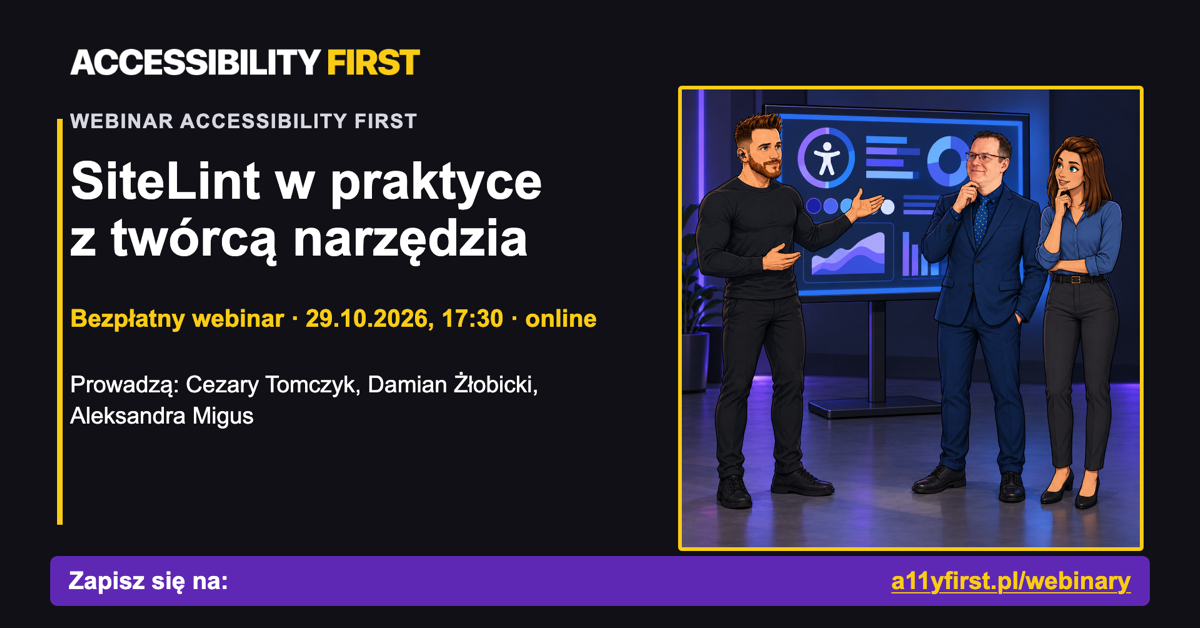
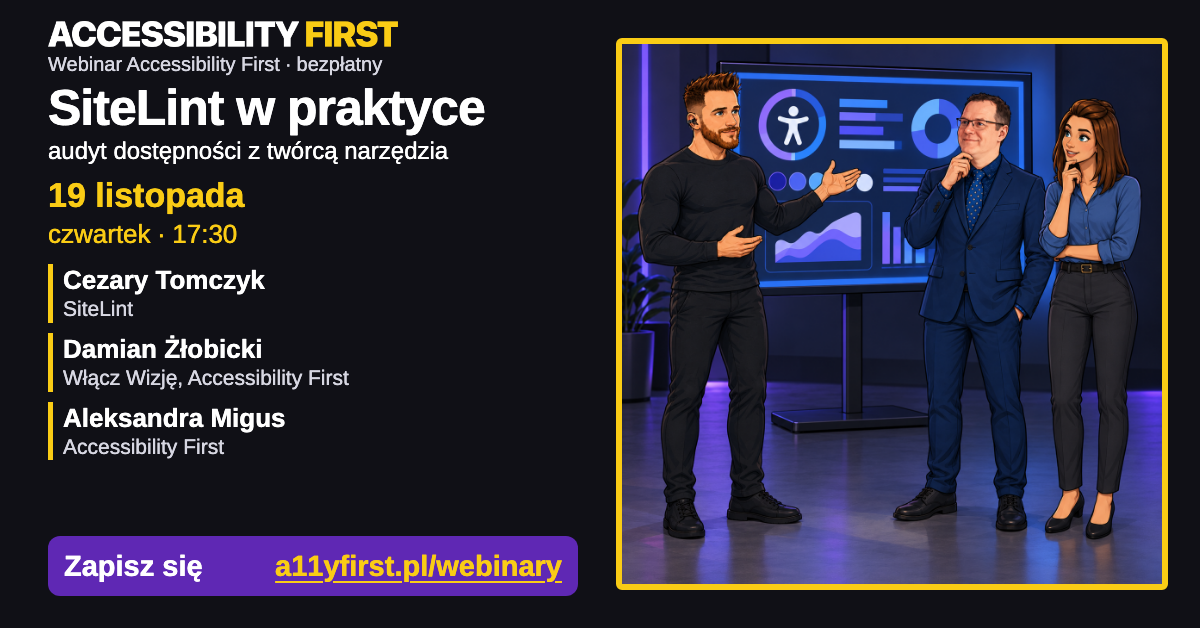
Webinar SiteLint przelozony na czw. 19.11.2026, 17:30-19:00
- strona webinaru: tytul, meta, OG/Twitter, alt OG, Event (start/end UTC+1), termin w tresci
- karty na stronie glownej i liscie webinarow: nowa data, kolejnosc CSS 05.11 przed SiteLint 19.11
- narzedzia-audytora i wzmianka w webinarze o wtyczkach: nowa data
- sitemap: lastmod strony SiteLint
- grafika OG 1200x628 (PNG i WebP) z nowa data

Decyzja Damiana z 27.10.2026. Link formularza zapisow bez zmian do czasu utworzenia nowego.

Claude-Session: https://claude.ai/code/session_018Wus6fJKrnewAEMPxJTZou

diff --git a/public/webinary/sitelint-w-praktyce.html b/public/webinary/sitelint-w-praktyce.html
@@ -3,8 +3,8 @@
 <head>
     <meta charset="UTF-8">
     <meta name="viewport" content="width=device-width, initial-scale=1.0">
-    <title>Webinar: SiteLint w praktyce, 29.10.2026 - Accessibility First</title>
-    <meta name="description" content="Bezpłatny webinar online o SiteLint: wtyczka do przeglądarki, DevTools i platforma. Prowadzą Cezary Tomczyk, Damian Żłobicki i Aleksandra Migus. 29 października 2026, 17:30-19:00.">
+    <title>Webinar: SiteLint w praktyce, 19.11.2026 - Accessibility First</title>
+    <meta name="description" content="Bezpłatny webinar online o SiteLint: wtyczka do przeglądarki, DevTools i platforma. Prowadzą Cezary Tomczyk, Damian Żłobicki i Aleksandra Migus. 19 listopada 2026, 17:30-19:00.">
     <link rel="canonical" href="https://www.a11yfirst.pl/webinary/sitelint-w-praktyce">
     <link rel="icon" href="/favicon.ico" sizes="16x16 32x32 48x48">
     <link rel="icon" href="/favicon-48x48.png" type="image/png" sizes="48x48">
@@ -14,19 +14,19 @@
     <meta property="og:type" content="website">
     <meta property="og:locale" content="pl_PL">
     <meta property="og:site_name" content="Accessibility First">
-    <meta property="og:title" content="Webinar: SiteLint w praktyce, 29.10.2026 - Accessibility First">
-    <meta property="og:description" content="Bezpłatny webinar online o SiteLint: wtyczka do przeglądarki, DevTools i platforma. Prowadzą Cezary Tomczyk, Damian Żłobicki i Aleksandra Migus. 29 października 2026, 17:30-19:00.">
+    <meta property="og:title" content="Webinar: SiteLint w praktyce, 19.11.2026 - Accessibility First">
+    <meta property="og:description" content="Bezpłatny webinar online o SiteLint: wtyczka do przeglądarki, DevTools i platforma. Prowadzą Cezary Tomczyk, Damian Żłobicki i Aleksandra Migus. 19 listopada 2026, 17:30-19:00.">
     <meta property="og:url" content="https://www.a11yfirst.pl/webinary/sitelint-w-praktyce">
     <meta property="og:image" content="https://www.a11yfirst.pl/assets/webinary/2026/sitelint-w-praktyce/og-sitelint-1200x628.png">
     <meta property="og:image:width" content="1200">
     <meta property="og:image:height" content="628">
-    <meta property="og:image:alt" content="Accessibility First. SiteLint w praktyce z twórcą narzędzia. Bezpłatny webinar online 29 października 2026 o 17:30. Prowadzą: Cezary Tomczyk, Damian Żłobicki i Aleksandra Migus. Zapisz się na a11yfirst.pl/webinary.">
+    <meta property="og:image:alt" content="Accessibility First. SiteLint w praktyce z twórcą narzędzia. Bezpłatny webinar online 19 listopada 2026 o 17:30. Prowadzą: Cezary Tomczyk, Damian Żłobicki i Aleksandra Migus. Zapisz się na a11yfirst.pl/webinary.">
     <meta name="twitter:card" content="summary_large_image">
-    <meta name="twitter:title" content="Webinar: SiteLint w praktyce, 29.10.2026 - Accessibility First">
-    <meta name="twitter:description" content="Bezpłatny webinar online o SiteLint: wtyczka do przeglądarki, DevTools i platforma. Prowadzą Cezary Tomczyk, Damian Żłobicki i Aleksandra Migus. 29 października 2026, 17:30-19:00.">
+    <meta name="twitter:title" content="Webinar: SiteLint w praktyce, 19.11.2026 - Accessibility First">
+    <meta name="twitter:description" content="Bezpłatny webinar online o SiteLint: wtyczka do przeglądarki, DevTools i platforma. Prowadzą Cezary Tomczyk, Damian Żłobicki i Aleksandra Migus. 19 listopada 2026, 17:30-19:00.">
     <meta name="twitter:image" content="https://www.a11yfirst.pl/assets/webinary/2026/sitelint-w-praktyce/og-sitelint-1200x628.png">
     <!-- DO UZUPEŁNIENIA w Event: endDate (czas trwania niepotwierdzony), offers.url = link formularza, availability InStock i validFrom po starcie zapisów, image dodany 06.10. -->
-    <script type="application/ld+json">{"@context":"https://schema.org","@type":"Event","name":"SiteLint w praktyce z twórcą narzędzia","description":"Bezpłatny webinar online o SiteLint w trzech odsłonach: wtyczka do przeglądarki, narzędzie w konsoli deweloperskiej i platforma z kodem JS.","url":"https://www.a11yfirst.pl/webinary/sitelint-w-praktyce","startDate":"2026-10-29T17:30:00+01:00","endDate":"2026-10-29T19:00:00+01:00","eventAttendanceMode":"https://schema.org/OnlineEventAttendanceMode","eventStatus":"https://schema.org/EventScheduled","isAccessibleForFree":true,"location":{"@type":"VirtualLocation","url":"https://www.a11yfirst.pl/webinary/sitelint-w-praktyce"},"organizer":{"@type":"Organization","name":"Włącz Wizję sp. z o.o.","url":"https://wlaczwizje.pl"},"image":"https://www.a11yfirst.pl/assets/webinary/2026/sitelint-w-praktyce/og-sitelint-1200x628.png","performer":[{"@type":"Person","name":"Cezary Tomczyk"},{"@type":"Person","name":"Damian Żłobicki"},{"@type":"Person","name":"Aleksandra Migus"}],"offers":{"@type":"Offer","url":"https://docs.google.com/forms/d/e/1FAIpQLScW7ZyZYVa_JvJkxAtBP7-mlr2eVgHw-nUFqQ8jYyQJlFkmCA/viewform","price":"0","priceCurrency":"PLN","availability":"https://schema.org/InStock"}}</script>
+    <script type="application/ld+json">{"@context":"https://schema.org","@type":"Event","name":"SiteLint w praktyce z twórcą narzędzia","description":"Bezpłatny webinar online o SiteLint w trzech odsłonach: wtyczka do przeglądarki, narzędzie w konsoli deweloperskiej i platforma z kodem JS.","url":"https://www.a11yfirst.pl/webinary/sitelint-w-praktyce","startDate":"2026-11-19T17:30:00+01:00","endDate":"2026-11-19T19:00:00+01:00","eventAttendanceMode":"https://schema.org/OnlineEventAttendanceMode","eventStatus":"https://schema.org/EventScheduled","isAccessibleForFree":true,"location":{"@type":"VirtualLocation","url":"https://www.a11yfirst.pl/webinary/sitelint-w-praktyce"},"organizer":{"@type":"Organization","name":"Włącz Wizję sp. z o.o.","url":"https://wlaczwizje.pl"},"image":"https://www.a11yfirst.pl/assets/webinary/2026/sitelint-w-praktyce/og-sitelint-1200x628.png","performer":[{"@type":"Person","name":"Cezary Tomczyk"},{"@type":"Person","name":"Damian Żłobicki"},{"@type":"Person","name":"Aleksandra Migus"}],"offers":{"@type":"Offer","url":"https://docs.google.com/forms/d/e/1FAIpQLScW7ZyZYVa_JvJkxAtBP7-mlr2eVgHw-nUFqQ8jYyQJlFkmCA/viewform","price":"0","priceCurrency":"PLN","availability":"https://schema.org/InStock"}}</script>
     <link rel="stylesheet" href="/assets/styles.css?v=21">
     <link rel="stylesheet" href="/assets/events.css?v=9">
 </head>
@@ -52,13 +52,13 @@
 
     <main id="main">
         <nav class="breadcrumbs" aria-label="Ścieżka okruszków"><ol><li><a href="/">Strona główna</a></li><li><a href="/szkolenia">Szkolenia</a></li><li><a href="/webinary">Webinary</a></li><li aria-current="page">SiteLint w praktyce z twórcą narzędzia</li></ol></nav>
-<section class="hero page-hero"><div class="container"><p class="event-kicker">Webinar Accessibility First · online · udział bezpłatny</p><h1>SiteLint w praktyce z twórcą narzędzia</h1><p class="subtitle"><time datetime="2026-10-29T17:30:00+01:00">Czwartek, 29 października 2026, godz. 17:30-19:00</time> (czas polski)</p><p class="event-summary">Bezpłatny webinar online o możliwościach SiteLint w trzech odsłonach: wtyczki do przeglądarki, narzędzia w konsoli deweloperskiej i platformy z kodem JS. Prowadzą Cezary Tomczyk, twórca narzędzia, Damian Żłobicki i Aleksandra Migus z Accessibility First.</p><a class="btn btn-primary" href="#zapisy">Przejdź do zapisów</a></div></section>
+<section class="hero page-hero"><div class="container"><p class="event-kicker">Webinar Accessibility First · online · udział bezpłatny</p><h1>SiteLint w praktyce z twórcą narzędzia</h1><p class="subtitle"><time datetime="2026-11-19T17:30:00+01:00">Czwartek, 19 listopada 2026, godz. 17:30-19:00</time> (czas polski)</p><p class="event-summary">Bezpłatny webinar online o możliwościach SiteLint w trzech odsłonach: wtyczki do przeglądarki, narzędzia w konsoli deweloperskiej i platformy z kodem JS. Prowadzą Cezary Tomczyk, twórca narzędzia, Damian Żłobicki i Aleksandra Migus z Accessibility First.</p><a class="btn btn-primary" href="#zapisy">Przejdź do zapisów</a></div></section>
   <section class="knowledge-article event-section" aria-labelledby="grafika"><div class="container"><h2 id="grafika">Webinar</h2><img class="event-image" src="/assets/webinary/2026/sitelint-w-praktyce/sitelint-trio-640.webp" srcset="/assets/webinary/2026/sitelint-w-praktyce/sitelint-trio-640.webp 640w, /assets/webinary/2026/sitelint-w-praktyce/sitelint-trio-960.webp 960w, /assets/webinary/2026/sitelint-w-praktyce/sitelint-trio-1254.webp 1254w" sizes="(max-width: 704px) calc(100vw - 4rem), 640px" width="640" height="640" alt="Ilustracja: trzy osoby prowadzące webinar stoją przy dużym ekranie z abstrakcyjnym raportem dostępności i ikoną dostępności. Damian wskazuje na ekran, Cezary w garniturze i Aleksandra słuchają."></div></section>
   <section class="knowledge-article event-section" aria-labelledby="opis"><div class="container"><h2 id="opis">O webinarze</h2><p>SiteLint był jednym z narzędzi omawianych na webinarze <a href="/webinary/nieoczywiste-wtyczki-do-badania-dostepnosci-cyfrowej">„Nieoczywiste wtyczki do badania dostępności cyfrowej”</a> 17 września 2026. Tym razem całe spotkanie poświęcamy temu narzędziu i pokazujemy je razem z jego twórcą, Cezarym Tomczykiem.</p><p>Webinar jest praktyczny: pokazy na przykładach i miejsce na pytania.</p></div></section>
   <section class="knowledge-article event-section" aria-labelledby="zakres"><div class="container"><h2 id="zakres">Co pokażemy?</h2><p>Możliwości SiteLint w trzech warstwach:</p><ul class="detail-list"><li>wtyczka do przeglądarki,</li><li>narzędzie w konsoli deweloperskiej (DevTools),</li><li>platforma z kodem JS.</li></ul><p>Szczegółowy program uzupełnimy przed webinarem.</p></div></section>
   <section class="knowledge-article event-section" aria-labelledby="dla-kogo"><div class="container"><h2 id="dla-kogo">Dla kogo?</h2><ul class="detail-list"><li>audytorów i testerów dostępności,</li><li>specjalistów WCAG,</li><li>frontend developerów,</li><li>osób utrzymujących serwisy internetowe,</li><li>UX/UI designerów,</li><li>koordynatorów dostępności.</li></ul><p>Wystarczy podstawowa znajomość dostępności cyfrowej. Nie trzeba znać SiteLint.</p></div></section>
   <section class="knowledge-article event-section" aria-labelledby="prowadzacy"><div class="container"><h2 id="prowadzacy">Prowadzą</h2><ul class="detail-list"><li><strong>Cezary Tomczyk</strong>, twórca SiteLint. Współpracował z Apple i Microsoft, pracował nad dostępnością Skype’a.</li><li><strong>Aleksandra Migus</strong>, Accessibility First. Członkini Sieci Dostępności Cyfrowej i testerka dostępności.</li><li><strong>Damian Żłobicki</strong>, Accessibility First / Włącz Wizję. Ekspert dostępności cyfrowej i trener Szkoły Dostępności Cyfrowej. Szkoli od 2015 roku, ma za sobą ponad 5000 godzin na sali szkoleniowej. Był ekspertem w projekcie „AI DC - sztuczna inteligencja w badaniu dostępności cyfrowej”, przy raporcie dla Ministerstwa Cyfryzacji.</li></ul></div></section>
-  <section class="knowledge-article event-section" aria-labelledby="organizacja"><div class="container"><h2 id="organizacja">Informacje organizacyjne</h2><dl class="event-facts"><div><dt>Termin</dt><dd>Czwartek, 29 października 2026</dd></div><div><dt>Godzina</dt><dd>17:30-19:00 (czas polski)</dd></div><div><dt>Forma</dt><dd>online</dd></div><div><dt>Udział</dt><dd>bezpłatny</dd></div><div><dt>Prowadzenie</dt><dd>Cezary Tomczyk, Damian Żłobicki i Aleksandra Migus</dd></div><div><dt>Link do spotkania</dt><dd>wyślemy mailem zapisanym osobom przed startem</dd></div></dl></div></section>
+  <section class="knowledge-article event-section" aria-labelledby="organizacja"><div class="container"><h2 id="organizacja">Informacje organizacyjne</h2><dl class="event-facts"><div><dt>Termin</dt><dd>Czwartek, 19 listopada 2026</dd></div><div><dt>Godzina</dt><dd>17:30-19:00 (czas polski)</dd></div><div><dt>Forma</dt><dd>online</dd></div><div><dt>Udział</dt><dd>bezpłatny</dd></div><div><dt>Prowadzenie</dt><dd>Cezary Tomczyk, Damian Żłobicki i Aleksandra Migus</dd></div><div><dt>Link do spotkania</dt><dd>wyślemy mailem zapisanym osobom przed startem</dd></div></dl></div></section>
   <section class="knowledge-article event-section" aria-labelledby="zapisy"><div class="container"><h2 id="zapisy">Zapisy na webinar</h2><p><a class="btn btn-primary" href="https://docs.google.com/forms/d/e/1FAIpQLScW7ZyZYVa_JvJkxAtBP7-mlr2eVgHw-nUFqQ8jYyQJlFkmCA/viewform">Zapisz się na webinar</a></p></div></section>
   <section class="knowledge-article event-access event-section" aria-labelledby="dostepnosc-wydarzenia-title">
             <div class="container">

diff --git a/public/webinary.html b/public/webinary.html
@@ -49,7 +49,7 @@
     <main id="main">
         <nav class="breadcrumbs" aria-label="Ścieżka okruszków"><ol><li><a href="/">Strona główna</a></li><li><a href="/szkolenia">Szkolenia</a></li><li aria-current="page">Webinary</li></ol></nav>
 
-<section class="hero page-hero"><div class="container"><h1>Webinary Accessibility First</h1><p class="subtitle">Praktyczne spotkania online o dostępności cyfrowej.</p></div></section><section class="knowledge-article event-section" aria-labelledby="wydarzenia"><div class="container"><h2 id="wydarzenia">Terminy i tematy webinarów</h2><div class="training-grid"><article class="training-card"><div class="training-card-image"><img src="/assets/webinary/2026/sitelint-w-praktyce/og-sitelint-1200x628.webp" width="1200" height="628" alt="Trzy osoby prowadzące webinar stoją przy dużym ekranie z abstrakcyjnym raportem dostępności i ikoną dostępności. Damian wskazuje na ekran, Cezary w garniturze i Aleksandra słuchają." loading="lazy"></div><div class="training-card-body"><p class="training-type">Webinar · online · udział bezpłatny</p><h3><a href="/webinary/sitelint-w-praktyce">SiteLint w praktyce z twórcą narzędzia</a></h3><p class="training-date"><strong><time datetime="2026-10-29T17:30:00+01:00">29 października 2026, godz. 17:30-19:00</time></strong></p><p class="training-speaker"><strong>Prowadzenie: Cezary Tomczyk, Damian Żłobicki i Aleksandra Migus</strong></p><p>Bezpłatny webinar online o SiteLint w trzech odsłonach: wtyczka do przeglądarki, narzędzie w konsoli deweloperskiej i platforma z kodem JS.</p><a class="btn btn-primary" href="https://docs.google.com/forms/d/e/1FAIpQLScW7ZyZYVa_JvJkxAtBP7-mlr2eVgHw-nUFqQ8jYyQJlFkmCA/viewform">Zapisz się na webinar<span class="sr-only">: SiteLint w praktyce z twórcą narzędzia</span></a></div></article><article class="training-card"><div class="training-card-image"><img src="/assets/webinary/2026/css-w-dostepnosci-cyfrowej/og-1200x628.webp" width="1200" height="628" alt="Ola w niebieskiej koszuli stoi profilem przy komputerze i wskazuje wyróżniony obrys prostokąta na ekranie z siatką, kontrastowymi polami i słupkami różnej wielkości." loading="lazy"></div><div class="training-card-body"><p class="training-type">Webinar · online · udział bezpłatny</p><h3><a href="/webinary/css-w-dostepnosci-cyfrowej">CSS w dostępności cyfrowej</a></h3><p class="training-date"><strong><time datetime="2026-11-05T17:30:00+01:00">5 listopada 2026, godz. 17:30-19:00</time></strong></p><p class="training-speaker"><strong>Prowadzenie: Aleksandra Migus</strong></p><p>Bezpłatny webinar online o tym, jak CSS wpływa na dostępność cyfrową. Prowadzi Aleksandra Migus.</p><a class="btn btn-primary" href="https://forms.gle/TsApx9d1GZmJ4kG58">Zapisz się na webinar<span class="sr-only">: CSS w dostępności cyfrowej</span></a></div></article><article class="training-card"><div class="training-card-image"><img src="/assets/webinary/2026/czy-dostepnosc-cyfrowa-jest-tematem-przyszlosci/og-v4-1200x628.webp" width="1200" height="628" alt="ACCESSIBILITY FIRST. Online, udział bezpłatny. Czy dostępność cyfrowa jest tematem przyszłości? Czwartek, 1 października 2026. 17:30-19:00 (czas polski). Prowadzą: Damian Żłobicki i Aleksandra Migus. Accessibility First: marka Włącz Wizję sp. z o.o. Damian i Ola pokazani profilem przy interaktywnym ekranie w futurystycznym centrum kompetencji. Ilustracja bez napisów; informacje wydarzenia obok, na fioletowym i jasnoniebieskim tle. Panel informacyjny i ilustracja mają żółte ramki." loading="lazy"></div><div class="training-card-body"><p class="training-type">Webinar · online · odbył się 01.10</p><h3><a href="/webinary/czy-dostepnosc-cyfrowa-jest-tematem-przyszlosci">Czy dostępność cyfrowa jest tematem przyszłości?</a></h3><p class="training-date"><strong><time datetime="2026-10-01T17:30:00+02:00">1 października 2026, godz. 17:30-19:00</time></strong></p><p class="training-speaker"><strong>Prowadzenie: Damian Żłobicki i Aleksandra Migus</strong></p><p>Ustawa, EAA, coraz więcej audytów, a obok AI, które obiecuje, że „zrobi dostępność za nas”. Dokąd to zmierza? Bezpłatny webinar online z Damianem Żłobickim i Aleksandrą Migus.</p><p>Nagranie jest dostępne bezpłatnie na YouTube.</p><a class="btn btn-primary" href="https://youtu.be/ip843OThfnU">Obejrzyj webinar na YouTube<span class="sr-only">: Czy dostępność cyfrowa jest tematem przyszłości?</span></a></div></article><article class="training-card"><div class="training-card-image"><img src="/assets/webinary/2026/semantyczny-html-nie-taki-straszny/sala-v2-1200x628.webp" width="1200" height="628" alt="Damian tłumaczy temat przy komputerze Apple w jasnej sali szkoleniowej." loading="lazy"></div><div class="training-card-body"><p class="training-type">Webinar · online · odbył się 24.09</p><h3><a href="/webinary/semantyczny-html-nie-taki-straszny">Semantyczny HTML, nie taki straszny</a></h3><p class="training-date"><strong><time datetime="2026-09-24T17:00:00+02:00">24 września 2026, godz. 17:00</time></strong></p><p class="training-speaker"><strong>Prowadzenie: Damian Żłobicki</strong></p><p>Praktyczny webinar o semantycznym HTML i jego znaczeniu dla dostępności cyfrowej, jakości kodu oraz współpracy z technologiami asystującymi.</p><a class="btn btn-primary" href="/sklep#web06">Kup nagranie (69 zł)<span class="sr-only">: nagranie webinaru Semantyczny HTML, nie taki straszny</span></a></div></article></div></div></section>
+<section class="hero page-hero"><div class="container"><h1>Webinary Accessibility First</h1><p class="subtitle">Praktyczne spotkania online o dostępności cyfrowej.</p></div></section><section class="knowledge-article event-section" aria-labelledby="wydarzenia"><div class="container"><h2 id="wydarzenia">Terminy i tematy webinarów</h2><div class="training-grid"><article class="training-card"><div class="training-card-image"><img src="/assets/webinary/2026/css-w-dostepnosci-cyfrowej/og-1200x628.webp" width="1200" height="628" alt="Ola w niebieskiej koszuli stoi profilem przy komputerze i wskazuje wyróżniony obrys prostokąta na ekranie z siatką, kontrastowymi polami i słupkami różnej wielkości." loading="lazy"></div><div class="training-card-body"><p class="training-type">Webinar · online · udział bezpłatny</p><h3><a href="/webinary/css-w-dostepnosci-cyfrowej">CSS w dostępności cyfrowej</a></h3><p class="training-date"><strong><time datetime="2026-11-05T17:30:00+01:00">5 listopada 2026, godz. 17:30-19:00</time></strong></p><p class="training-speaker"><strong>Prowadzenie: Aleksandra Migus</strong></p><p>Bezpłatny webinar online o tym, jak CSS wpływa na dostępność cyfrową. Prowadzi Aleksandra Migus.</p><a class="btn btn-primary" href="https://forms.gle/TsApx9d1GZmJ4kG58">Zapisz się na webinar<span class="sr-only">: CSS w dostępności cyfrowej</span></a></div></article><article class="training-card"><div class="training-card-image"><img src="/assets/webinary/2026/sitelint-w-praktyce/og-sitelint-1200x628.webp" width="1200" height="628" alt="Trzy osoby prowadzące webinar stoją przy dużym ekranie z abstrakcyjnym raportem dostępności i ikoną dostępności. Damian wskazuje na ekran, Cezary w garniturze i Aleksandra słuchają." loading="lazy"></div><div class="training-card-body"><p class="training-type">Webinar · online · udział bezpłatny</p><h3><a href="/webinary/sitelint-w-praktyce">SiteLint w praktyce z twórcą narzędzia</a></h3><p class="training-date"><strong><time datetime="2026-11-19T17:30:00+01:00">19 listopada 2026, godz. 17:30-19:00</time></strong></p><p class="training-speaker"><strong>Prowadzenie: Cezary Tomczyk, Damian Żłobicki i Aleksandra Migus</strong></p><p>Bezpłatny webinar online o SiteLint w trzech odsłonach: wtyczka do przeglądarki, narzędzie w konsoli deweloperskiej i platforma z kodem JS.</p><a class="btn btn-primary" href="https://docs.google.com/forms/d/e/1FAIpQLScW7ZyZYVa_JvJkxAtBP7-mlr2eVgHw-nUFqQ8jYyQJlFkmCA/viewform">Zapisz się na webinar<span class="sr-only">: SiteLint w praktyce z twórcą narzędzia</span></a></div></article><article class="training-card"><div class="training-card-image"><img src="/assets/webinary/2026/czy-dostepnosc-cyfrowa-jest-tematem-przyszlosci/og-v4-1200x628.webp" width="1200" height="628" alt="ACCESSIBILITY FIRST. Online, udział bezpłatny. Czy dostępność cyfrowa jest tematem przyszłości? Czwartek, 1 października 2026. 17:30-19:00 (czas polski). Prowadzą: Damian Żłobicki i Aleksandra Migus. Accessibility First: marka Włącz Wizję sp. z o.o. Damian i Ola pokazani profilem przy interaktywnym ekranie w futurystycznym centrum kompetencji. Ilustracja bez napisów; informacje wydarzenia obok, na fioletowym i jasnoniebieskim tle. Panel informacyjny i ilustracja mają żółte ramki." loading="lazy"></div><div class="training-card-body"><p class="training-type">Webinar · online · odbył się 01.10</p><h3><a href="/webinary/czy-dostepnosc-cyfrowa-jest-tematem-przyszlosci">Czy dostępność cyfrowa jest tematem przyszłości?</a></h3><p class="training-date"><strong><time datetime="2026-10-01T17:30:00+02:00">1 października 2026, godz. 17:30-19:00</time></strong></p><p class="training-speaker"><strong>Prowadzenie: Damian Żłobicki i Aleksandra Migus</strong></p><p>Ustawa, EAA, coraz więcej audytów, a obok AI, które obiecuje, że „zrobi dostępność za nas”. Dokąd to zmierza? Bezpłatny webinar online z Damianem Żłobickim i Aleksandrą Migus.</p><p>Nagranie jest dostępne bezpłatnie na YouTube.</p><a class="btn btn-primary" href="https://youtu.be/ip843OThfnU">Obejrzyj webinar na YouTube<span class="sr-only">: Czy dostępność cyfrowa jest tematem przyszłości?</span></a></div></article><article class="training-card"><div class="training-card-image"><img src="/assets/webinary/2026/semantyczny-html-nie-taki-straszny/sala-v2-1200x628.webp" width="1200" height="628" alt="Damian tłumaczy temat przy komputerze Apple w jasnej sali szkoleniowej." loading="lazy"></div><div class="training-card-body"><p class="training-type">Webinar · online · odbył się 24.09</p><h3><a href="/webinary/semantyczny-html-nie-taki-straszny">Semantyczny HTML, nie taki straszny</a></h3><p class="training-date"><strong><time datetime="2026-09-24T17:00:00+02:00">24 września 2026, godz. 17:00</time></strong></p><p class="training-speaker"><strong>Prowadzenie: Damian Żłobicki</strong></p><p>Praktyczny webinar o semantycznym HTML i jego znaczeniu dla dostępności cyfrowej, jakości kodu oraz współpracy z technologiami asystującymi.</p><a class="btn btn-primary" href="/sklep#web06">Kup nagranie (69 zł)<span class="sr-only">: nagranie webinaru Semantyczny HTML, nie taki straszny</span></a></div></article></div></div></section>
     </main>
 
     <footer>

diff --git a/public/index.html b/public/index.html
@@ -496,7 +496,7 @@
     </nav>
 
 <!-- generated:webinars:start -->
-<section class="home-webinars" aria-labelledby="home-webinars-title" data-lista-webinarow="linkWebinaryHome"><h2 id="home-webinars-title">Najbliższe webinary</h2><div class="training-grid"><article class="training-card" data-typ="webinar"><div class="training-card-image"><img src="/assets/webinary/2026/sitelint-w-praktyce/og-sitelint-1200x628.webp" width="1200" height="628" alt="Trzy osoby prowadzące webinar stoją przy dużym ekranie z abstrakcyjnym raportem dostępności i ikoną dostępności. Damian wskazuje na ekran, Cezary w garniturze i Aleksandra słuchają." loading="lazy"></div><div class="training-card-body"><p class="training-type">Webinar · online · udział bezpłatny</p><h3>SiteLint w praktyce z twórcą narzędzia</h3><p class="training-date"><strong><time datetime="2026-10-29T17:30:00+01:00">29 października 2026, godz. 17:30-19:00</time></strong></p><p class="training-speaker"><strong>Prowadzenie: Cezary Tomczyk, Damian Żłobicki i Aleksandra Migus</strong></p><p>Bezpłatny webinar online o trzech sposobach pracy z SiteLint.</p><a class="btn btn-primary" href="https://docs.google.com/forms/d/e/1FAIpQLScW7ZyZYVa_JvJkxAtBP7-mlr2eVgHw-nUFqQ8jYyQJlFkmCA/viewform">Zapisz się na webinar<span class="sr-only">: SiteLint w praktyce z twórcą narzędzia</span></a></div></article><article class="training-card" data-typ="webinar"><div class="training-card-image"><img src="/assets/webinary/2026/css-w-dostepnosci-cyfrowej/og-1200x628.webp" width="1200" height="628" alt="Ola w niebieskiej koszuli stoi profilem przy komputerze i wskazuje wyróżniony obrys prostokąta na ekranie z siatką, kontrastowymi polami i słupkami różnej wielkości." loading="lazy"></div><div class="training-card-body"><p class="training-type">Webinar · online · udział bezpłatny</p><h3>CSS w dostępności cyfrowej</h3><p class="training-date"><strong><time datetime="2026-11-05T17:30:00+01:00">5 listopada 2026, godz. 17:30-19:00</time></strong></p><p class="training-speaker"><strong>Prowadzenie: Aleksandra Migus</strong></p><p>Bezpłatny webinar online o tym, jak CSS wpływa na dostępność cyfrową. Prowadzi Aleksandra Migus.</p><a class="btn btn-primary" href="https://forms.gle/TsApx9d1GZmJ4kG58">Zapisz się na webinar</a></div></article></div><p id="linkWebinaryHome" hidden><a href="/webinary">Zapoznaj się ze wszystkimi webinarami</a></p></section>
+<section class="home-webinars" aria-labelledby="home-webinars-title" data-lista-webinarow="linkWebinaryHome"><h2 id="home-webinars-title">Najbliższe webinary</h2><div class="training-grid"><article class="training-card" data-typ="webinar"><div class="training-card-image"><img src="/assets/webinary/2026/css-w-dostepnosci-cyfrowej/og-1200x628.webp" width="1200" height="628" alt="Ola w niebieskiej koszuli stoi profilem przy komputerze i wskazuje wyróżniony obrys prostokąta na ekranie z siatką, kontrastowymi polami i słupkami różnej wielkości." loading="lazy"></div><div class="training-card-body"><p class="training-type">Webinar · online · udział bezpłatny</p><h3>CSS w dostępności cyfrowej</h3><p class="training-date"><strong><time datetime="2026-11-05T17:30:00+01:00">5 listopada 2026, godz. 17:30-19:00</time></strong></p><p class="training-speaker"><strong>Prowadzenie: Aleksandra Migus</strong></p><p>Bezpłatny webinar online o tym, jak CSS wpływa na dostępność cyfrową. Prowadzi Aleksandra Migus.</p><a class="btn btn-primary" href="https://forms.gle/TsApx9d1GZmJ4kG58">Zapisz się na webinar</a></div></article><article class="training-card" data-typ="webinar"><div class="training-card-image"><img src="/assets/webinary/2026/sitelint-w-praktyce/og-sitelint-1200x628.webp" width="1200" height="628" alt="Trzy osoby prowadzące webinar stoją przy dużym ekranie z abstrakcyjnym raportem dostępności i ikoną dostępności. Damian wskazuje na ekran, Cezary w garniturze i Aleksandra słuchają." loading="lazy"></div><div class="training-card-body"><p class="training-type">Webinar · online · udział bezpłatny</p><h3>SiteLint w praktyce z twórcą narzędzia</h3><p class="training-date"><strong><time datetime="2026-11-19T17:30:00+01:00">19 listopada 2026, godz. 17:30-19:00</time></strong></p><p class="training-speaker"><strong>Prowadzenie: Cezary Tomczyk, Damian Żłobicki i Aleksandra Migus</strong></p><p>Bezpłatny webinar online o trzech sposobach pracy z SiteLint.</p><a class="btn btn-primary" href="https://docs.google.com/forms/d/e/1FAIpQLScW7ZyZYVa_JvJkxAtBP7-mlr2eVgHw-nUFqQ8jYyQJlFkmCA/viewform">Zapisz się na webinar<span class="sr-only">: SiteLint w praktyce z twórcą narzędzia</span></a></div></article></div><p id="linkWebinaryHome" hidden><a href="/webinary">Zapoznaj się ze wszystkimi webinarami</a></p></section>
 <!-- generated:webinars:end -->
   </main>
 

diff --git a/public/webinary/nieoczywiste-wtyczki-do-badania-dostepnosci-cyfrowej.html b/public/webinary/nieoczywiste-wtyczki-do-badania-dostepnosci-cyfrowej.html
@@ -53,7 +53,7 @@
   <section class="knowledge-article event-section" aria-labelledby="grafika"><div class="container"><h2 id="grafika">Webinar</h2><img class="event-image" src="/assets/webinary/2026/nieoczywiste-wtyczki-do-badania-dostepnosci-cyfrowej/landscape.png" alt="Grafika webinaru „Nieoczywiste wtyczki do badania dostępności cyfrowej”. Ola i Damian stoją przy komputerze Apple w jasnej sali szkoleniowej."></div></section>
   <section class="knowledge-article event-section" aria-labelledby="opis"><div class="container"><h2 id="opis">O webinarze</h2><p>Automatyczne testy dostępności to tylko początek. W codziennej pracy przydają się również narzędzia, które pomagają szybciej sprawdzić strukturę strony, sposób użycia nagłówków, teksty alternatywne, fokus, formularze, kontrast czy elementy istotne dla technologii asystujących.</p>
 <p>Podczas webinaru pokażemy mniej oczywiste wtyczki i rozszerzenia do przeglądarki, które warto mieć pod ręką podczas badania dostępności cyfrowej.</p>
-<p>Jednym z omawianych narzędzi był SiteLint. Osobny webinar o nim prowadzimy 29 października 2026 razem z twórcą narzędzia: <a href="/webinary/sitelint-w-praktyce">SiteLint w praktyce z twórcą narzędzia</a>.</p></div></section>
+<p>Jednym z omawianych narzędzi był SiteLint. Osobny webinar o nim prowadzimy 19 listopada 2026 razem z twórcą narzędzia: <a href="/webinary/sitelint-w-praktyce">SiteLint w praktyce z twórcą narzędzia</a>.</p></div></section>
   <section class="knowledge-article event-section" aria-labelledby="zakres"><div class="container"><h2 id="zakres">O czym będzie webinar?</h2><ul class="detail-list"><li>jakie wtyczki mogą uzupełnić podstawowy zestaw narzędzi audytora i specjalisty dostępności,</li><li>do jakich problemów warto używać konkretnych rozszerzeń,</li><li>jak szybciej wychwytywać błędy, których nie pokazuje pojedynczy skaner automatyczny,</li><li>jak nie wpaść w pułapkę „zielonego wyniku” z automatycznego testu,</li><li>jak zbudować własny praktyczny zestaw narzędzi do codziennej pracy.</li></ul><p>Webinar będzie nastawiony na praktykę i konkretne zastosowania, a nie przegląd przypadkowych dodatków do przeglądarki.</p></div></section>
   <section class="knowledge-article event-section" aria-labelledby="dla-kogo"><div class="container"><h2 id="dla-kogo">Dla kogo?</h2><ul class="detail-list"><li>osób zajmujących się dostępnością cyfrową,</li><li>testerów i audytorów,</li><li>frontend developerów,</li><li>osób tworzących i utrzymujących serwisy internetowe,</li><li>UX/UI designerów,</li><li>osób odpowiedzialnych za jakość i zgodność cyfrowych produktów.</li></ul><p>Nie musisz być zaawansowanym audytorem. Wystarczy podstawowa znajomość dostępności cyfrowej i chęć usprawnienia swojej pracy.</p></div></section>
   <section class="knowledge-article event-section" aria-labelledby="organizacja"><div class="container"><h2 id="organizacja">Informacje organizacyjne</h2><dl class="event-facts"><div><dt>Termin</dt><dd>17 września 2026</dd></div><div><dt>Godzina</dt><dd>17:00 (Europe/Warsaw)</dd></div><div><dt>Forma</dt><dd>online</dd></div><div><dt>Prowadzenie</dt><dd>Damian Żłobicki i Ola Migus</dd></div></dl></div></section>

diff --git a/public/narzedzia-audytora.html b/public/narzedzia-audytora.html
@@ -153,7 +153,7 @@
                     </table>
                 </div>
 
-                <p>SiteLint pokażemy w praktyce razem z jego twórcą, Cezarym Tomczykiem, na bezpłatnym webinarze 29 października 2026: <a href="/webinary/sitelint-w-praktyce">SiteLint w praktyce z twórcą narzędzia</a>.</p>
+                <p>SiteLint pokażemy w praktyce razem z jego twórcą, Cezarym Tomczykiem, na bezpłatnym webinarze 19 listopada 2026: <a href="/webinary/sitelint-w-praktyce">SiteLint w praktyce z twórcą narzędzia</a>.</p>
 
                 <article class="knowledge-panel">
                     <h3>Polecane zasoby</h3>
